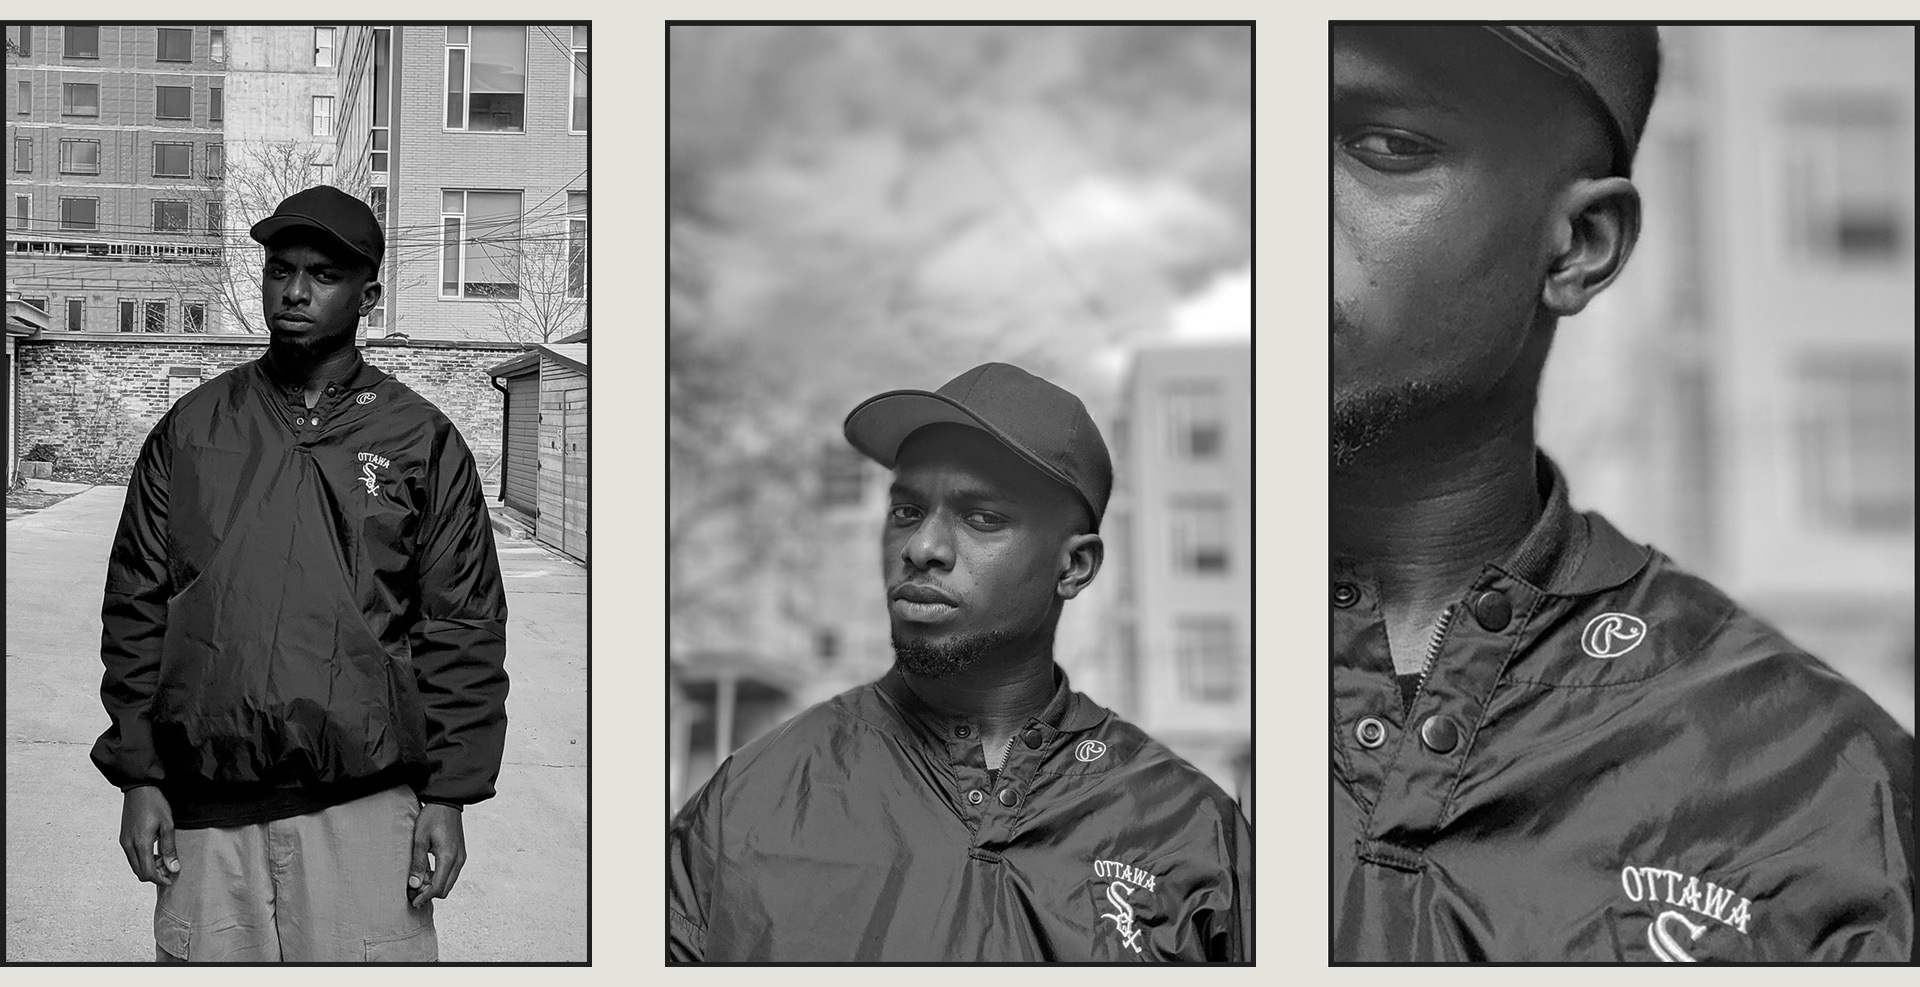
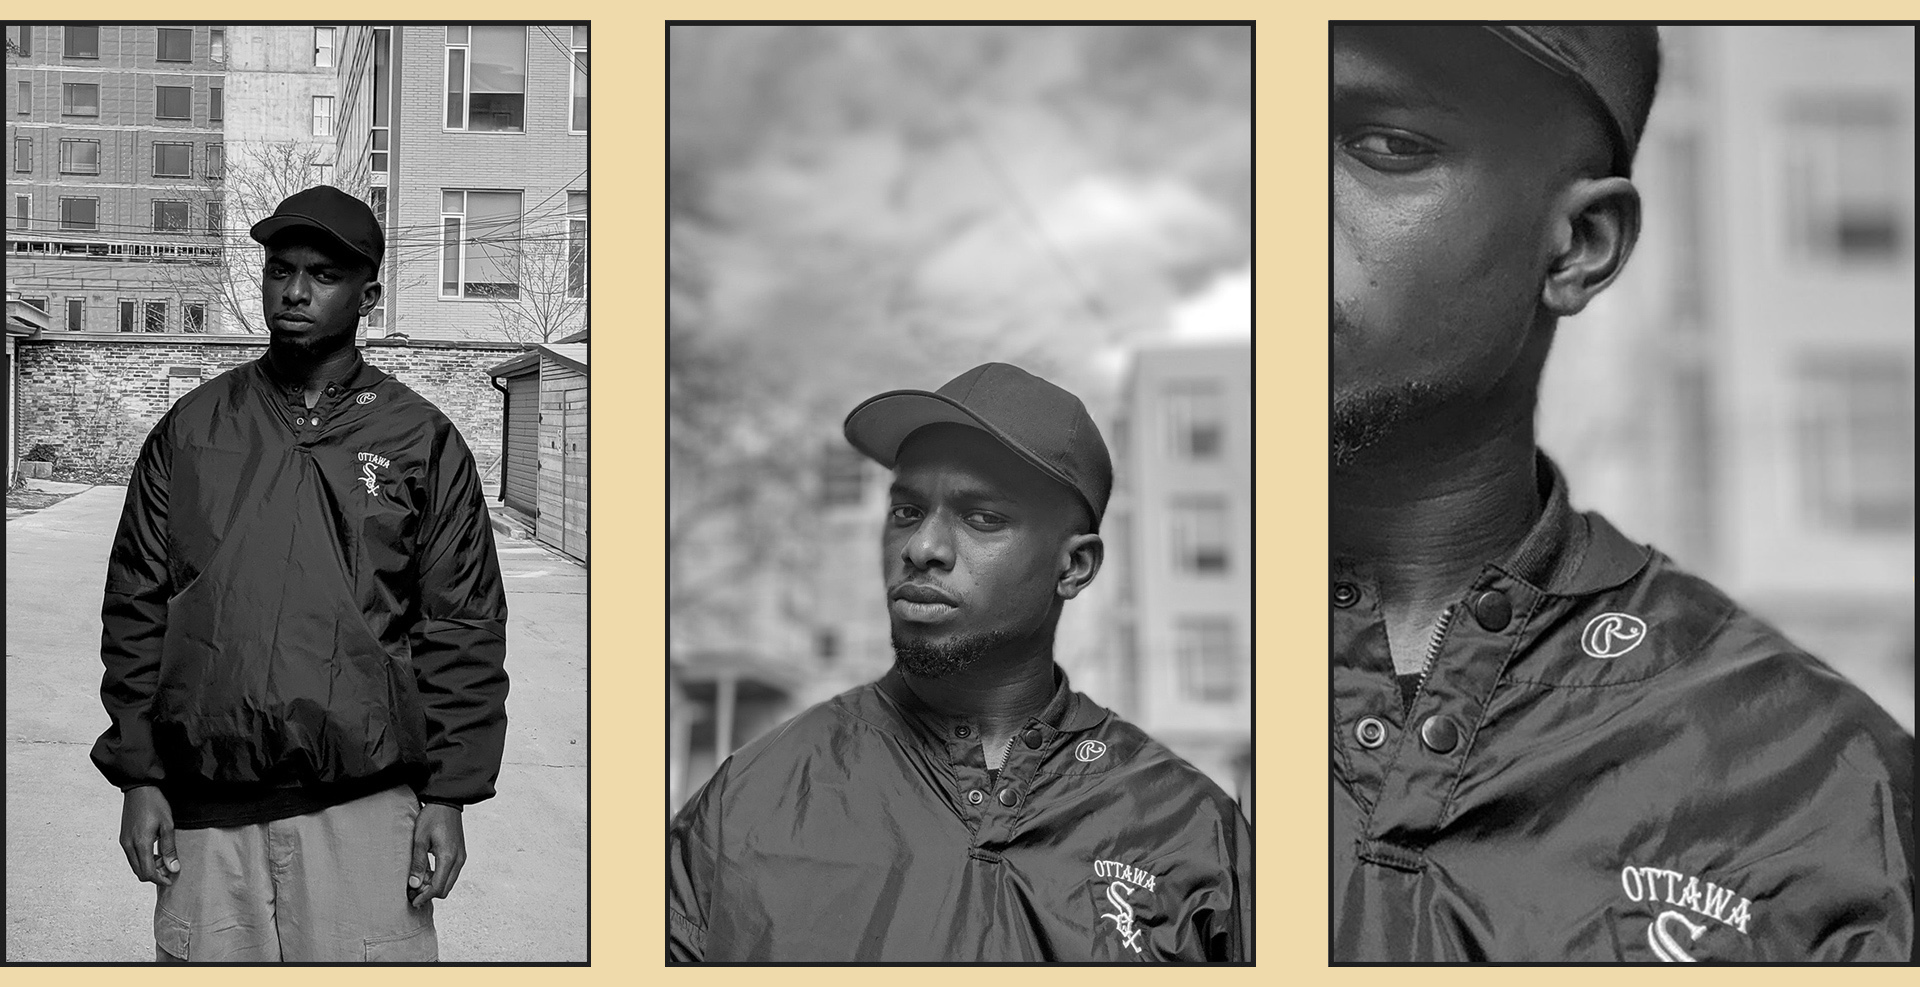
Updating images

Changed region(s): [[0.0, 0.0, 1.0, 1.0]]

diff --git a/index.html b/index.html
@@ -21,11 +21,11 @@
       <div class="grid header-navigation centre space-after6x">
 
         <div class="unit xs-1 s-1 m-1 l-1">
-        <p class="small-reg body-reg uppercase"><a href="index.html#press">Press</a></p>
-        <p class="small-reg body-reg uppercase"><a href="index.html#shows">Shows</a></p>
-        <h1 class="heading-italic uppercase"><a href="index.html">Asuquomo</a></h1>
-        <p class="small-reg body-reg uppercase"><a href="merch.html">Merch</a></p>
-        <p class="small-reg body-reg uppercase"><a href="https://www.instagram.com/asuquomo/" target="_blank">Follow</a></p>
+            <p class="small-reg body-reg uppercase"><a href="index.html#press">Press</a></p>
+            <p class="small-reg body-reg uppercase"><a href="index.html#shows">Shows</a></p>
+            <h1 class="heading-italic uppercase"><a href="index.html">Asuquomo</a></h1>
+            <p class="small-reg body-reg uppercase"><a href="merch.html">Merch</a></p>
+            <p class="small-reg body-reg uppercase"><a href="https://www.instagram.com/asuquomo/" target="_blank">Follow</a></p>
         </div>
 
       </div>
@@ -54,22 +54,22 @@
         <p class="lives-shows-date body-medium uppercase small-reg colour-black">Aug 18, SUN</p>
         <p class="body-medium small-reg colour-black">African Giant Returns Tour—Opener</p>
         <p class="body-reg small-reg space-after-1-2 colour-black">Rebel, 11 Polson Street, Toronto, ON</p>
-        <p class="body-reg small-reg uppercase button space-after3x"><a href="gallery-burnaboy.html">View gallery</a></p>
+        <p class="body-reg small-reg uppercase button space-after3x colour-black"><a href="gallery.html#cmw">View gallery</a></p>
 
         <p class="lives-shows-date body-medium uppercase small-reg colour-black">Aug 17, SAT</p>
         <p class="body-medium small-reg colour-black">Late August Music Fest—Headliner</p>
         <p class="body-reg small-reg space-after-1-2 colour-black">1294 Queen St. West, Toronto, ON</p>
-        <p class="body-reg small-reg uppercase button space-after3x"><a href="gallery-cmw.html">View gallery</a></p>
+        <p class="body-reg small-reg uppercase button space-after3x colour-black"><a href="gallery.html#cmw">View gallery</a></p>
 
         <p class="lives-shows-date body-medium uppercase small-reg color-black">Jul 26, FRI</p>
         <p class="body-medium small-reg color-black">Mdou Moctar—Opener</p>
         <p class="body-reg small-reg space-after-1-2 color-black">Queen Street Fare, Ottawa, ON</p>
-        <p class="body-reg small-reg uppercase button space-after3x"><a href="gallery-cmw.html">View gallery</a></p>
+        <p class="body-reg small-reg uppercase button space-after3x colour-black"><a href="gallery.html#cmw">View gallery</a></p>
 
         <p class="lives-shows-date body-medium uppercase small-reg color-black">May 10, FRI</p>
         <p class="body-medium small-reg color-black">Blue Crane Agency, Afrofest and Canadian Music Week Presents</p>
         <p class="body-reg small-reg space-after-1-2 color-black">Longboat Hall, 1087 Queen Street West, Toronto, ON</p>
-        <p class="body-reg small-reg uppercase button space-after3x"><a href="gallery-cmw.html">View gallery</a></p>
+        <p class="body-reg small-reg uppercase button space-after3x colour-black"><a href="gallery.html#cmw">View gallery</a></p>
         </div>
 
       </div>

diff --git a/css/main.css b/css/main.css
@@ -12,7 +12,7 @@
   overflow-x: hidden;
 
   height: 100%;
-  background-color: #e4e4dc;
+  background-color: #efdaab;
 }
 
 #body-merch {
@@ -45,10 +45,6 @@
   height: 100%;
 }
 
-
-
-
-
 div {
   display: block;
 }
@@ -64,11 +60,15 @@ body, p {
 
 a {
   text-decoration: none;
-  color: #0f1c13;
+  color: #232019;
+}
+
+a:hover {
+  color: #706652;
 }
 
 .colour-black {
-  color: #0f1c13;
+  color: #232019;
 }
 
 .colour-white {
@@ -76,11 +76,15 @@ a {
 }
 
 .colour-grey {
-  color: #636c66;
+  color: #706652;
 }
 
 .colour-accent {
-  color: #0f2e18;
+  color: #f1c56d;
+}
+
+.border-bottom {
+  border-bottom: 1px solid #232019;
 }
 
 
@@ -179,9 +183,8 @@ a {
 }
 
 
-
-
 /******************************** HEADER *******************/
+
 .header-navigation p, .header-navigation h1 {
   display: inline-block;
   letter-spacing: .15rem;
@@ -198,8 +201,32 @@ a {
   padding-right: 4rem;
 }
 
+
+/*#header-navigation {
+  position: fixed;
+  top: -60px;
+  width: 100vw;
+  padding-top: 5rem;
+  padding-bottom: 0px;
+  vertical-align: baseline;
+
+  padding-bottom: 1.3rem;
+}*/
+
+
+
+
+
+
+
+
+
+
+
+
+/******************************** CONTENT *******************/
 .content h2 {
-  font-size: 1.5rem;
+  font-size: 1.25rem;
 }
 
 .content p {
@@ -221,7 +248,6 @@ a {
 }
 
 
-
 /******************************** PRESS *******************/
 
 
@@ -231,13 +257,13 @@ a {
 
 /******************************** MERCH TBD *******************/
 #body-merch {
-  background-color: #e4e4dc;
+  background-color: #f1c56d;
 }
 
 
 /******************************** LINKs page *******************/
 #body-link {
-  background-color: #e5843b;
+  background-color: #f1c56d;
 }
 
 .box-item {
@@ -335,7 +361,7 @@ a {
 }
 
 .header-navigation h1 {
-  font-size: 2rem;
+  font-size: 1.5rem;
   padding-left: 4rem;
   padding-right: 4rem;
 }

diff --git a/gallery.html b/gallery.html
@@ -31,7 +31,7 @@
       </div>
     </div>
 
-    <div class="content space-after6x">
+    <div id="cmw" class="content space-after6x border-bottom">
       <div class="grid centre">
 
         <div class="unit xs-1 s-1 m-1 l-1">
